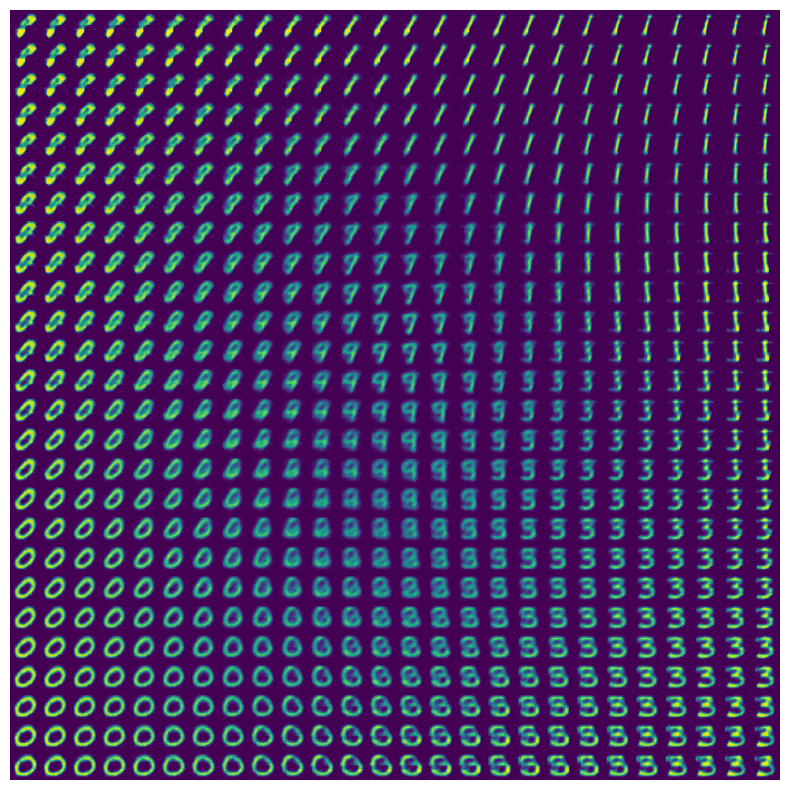
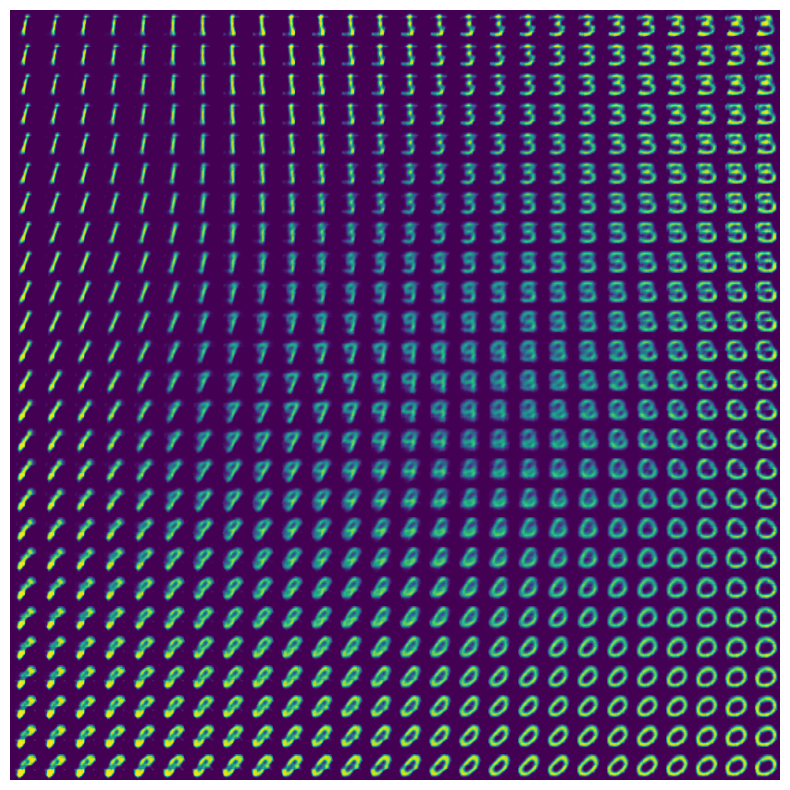
fix script for plotting generated imgs

diff --git a/2D/plotting scripts/PlotGeneratedImages.py b/2D/plotting scripts/PlotGeneratedImages.py
@@ -27,14 +27,15 @@ def main():
     num_imgs_per_axis = corrds_x.shape[0]
 
     corrds = []
-    for x in corrds_x:
+    for x in corrds_x[::-1]:
         for y in corrds_y:
-            corrds.append([x,y])
+            corrds.append([y,x])
 
     embeddings = tf.stack(corrds, axis=0)
 
     imgs = autoencoder.decoder(embeddings)
     imgs = tf.reshape(imgs, shape=(num_imgs_per_axis, num_imgs_per_axis, img_height, img_width, 1))
+    imgs = imgs[:, :, :, :, :]
 
     total_img = np.zeros(shape=(num_imgs_per_axis*img_height,num_imgs_per_axis*img_width, 1), dtype=np.float32)
     
